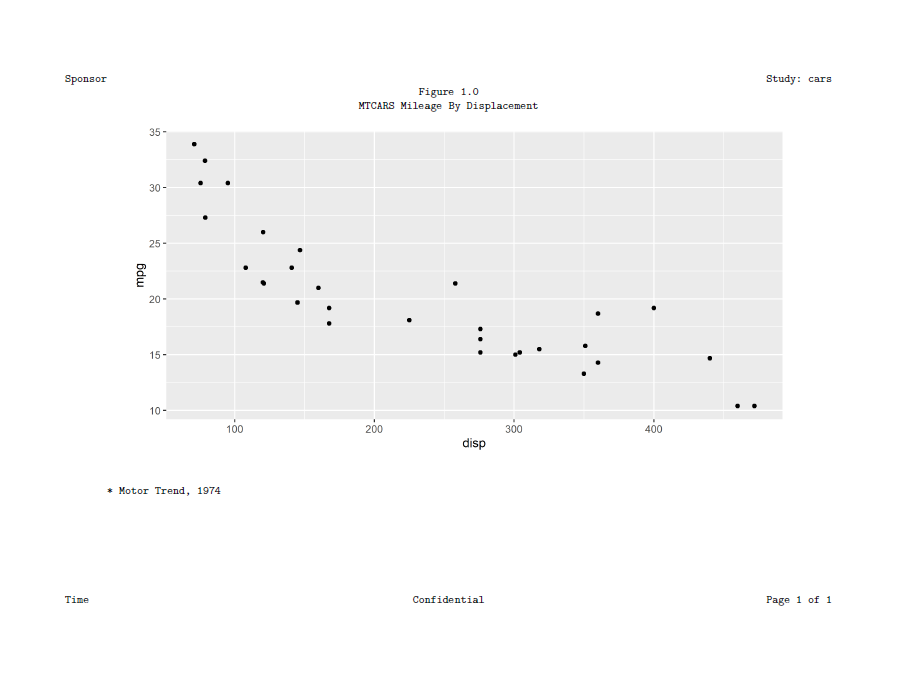
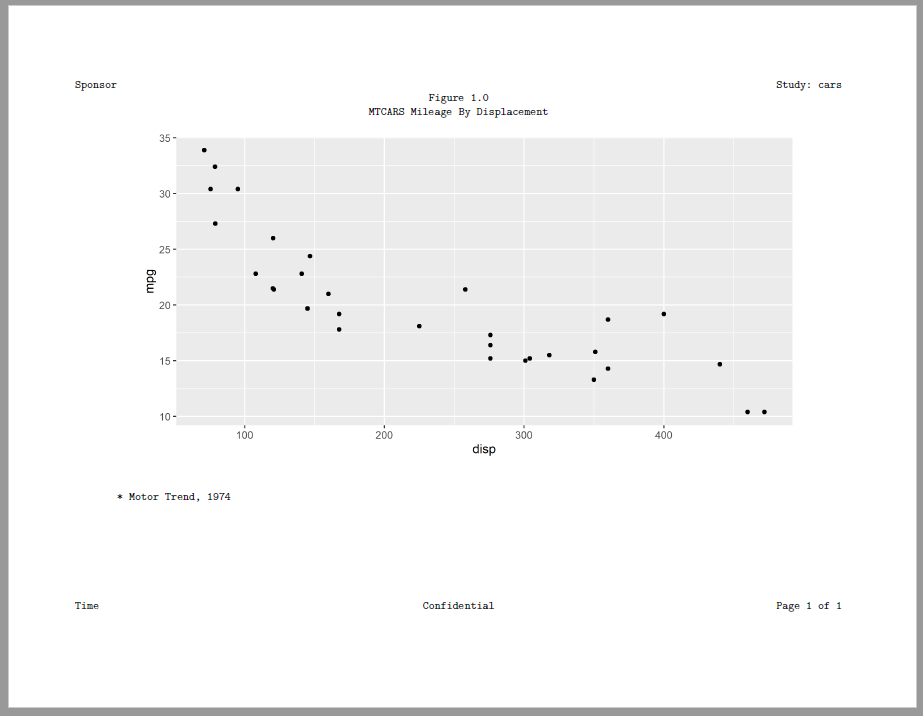
Updated readme images.

diff --git a/README.md b/README.md
@@ -724,7 +724,7 @@ tbl <- create_table(df, first_row_blank = TRUE) %>%
 
 
 # Create report and add content
-rpt <- create_report(tmp, orientation = "portrait", output_type = "RTF") %>% 
+rpt <- create_report(tmp, output_type = "RTF") %>% 
   page_header(left = "Client: Motor Trend", right = "Study: Cars") %>% 
   titles("Table 1.0", "MTCARS Summary Table") %>% 
   add_content(tbl) %>% 
